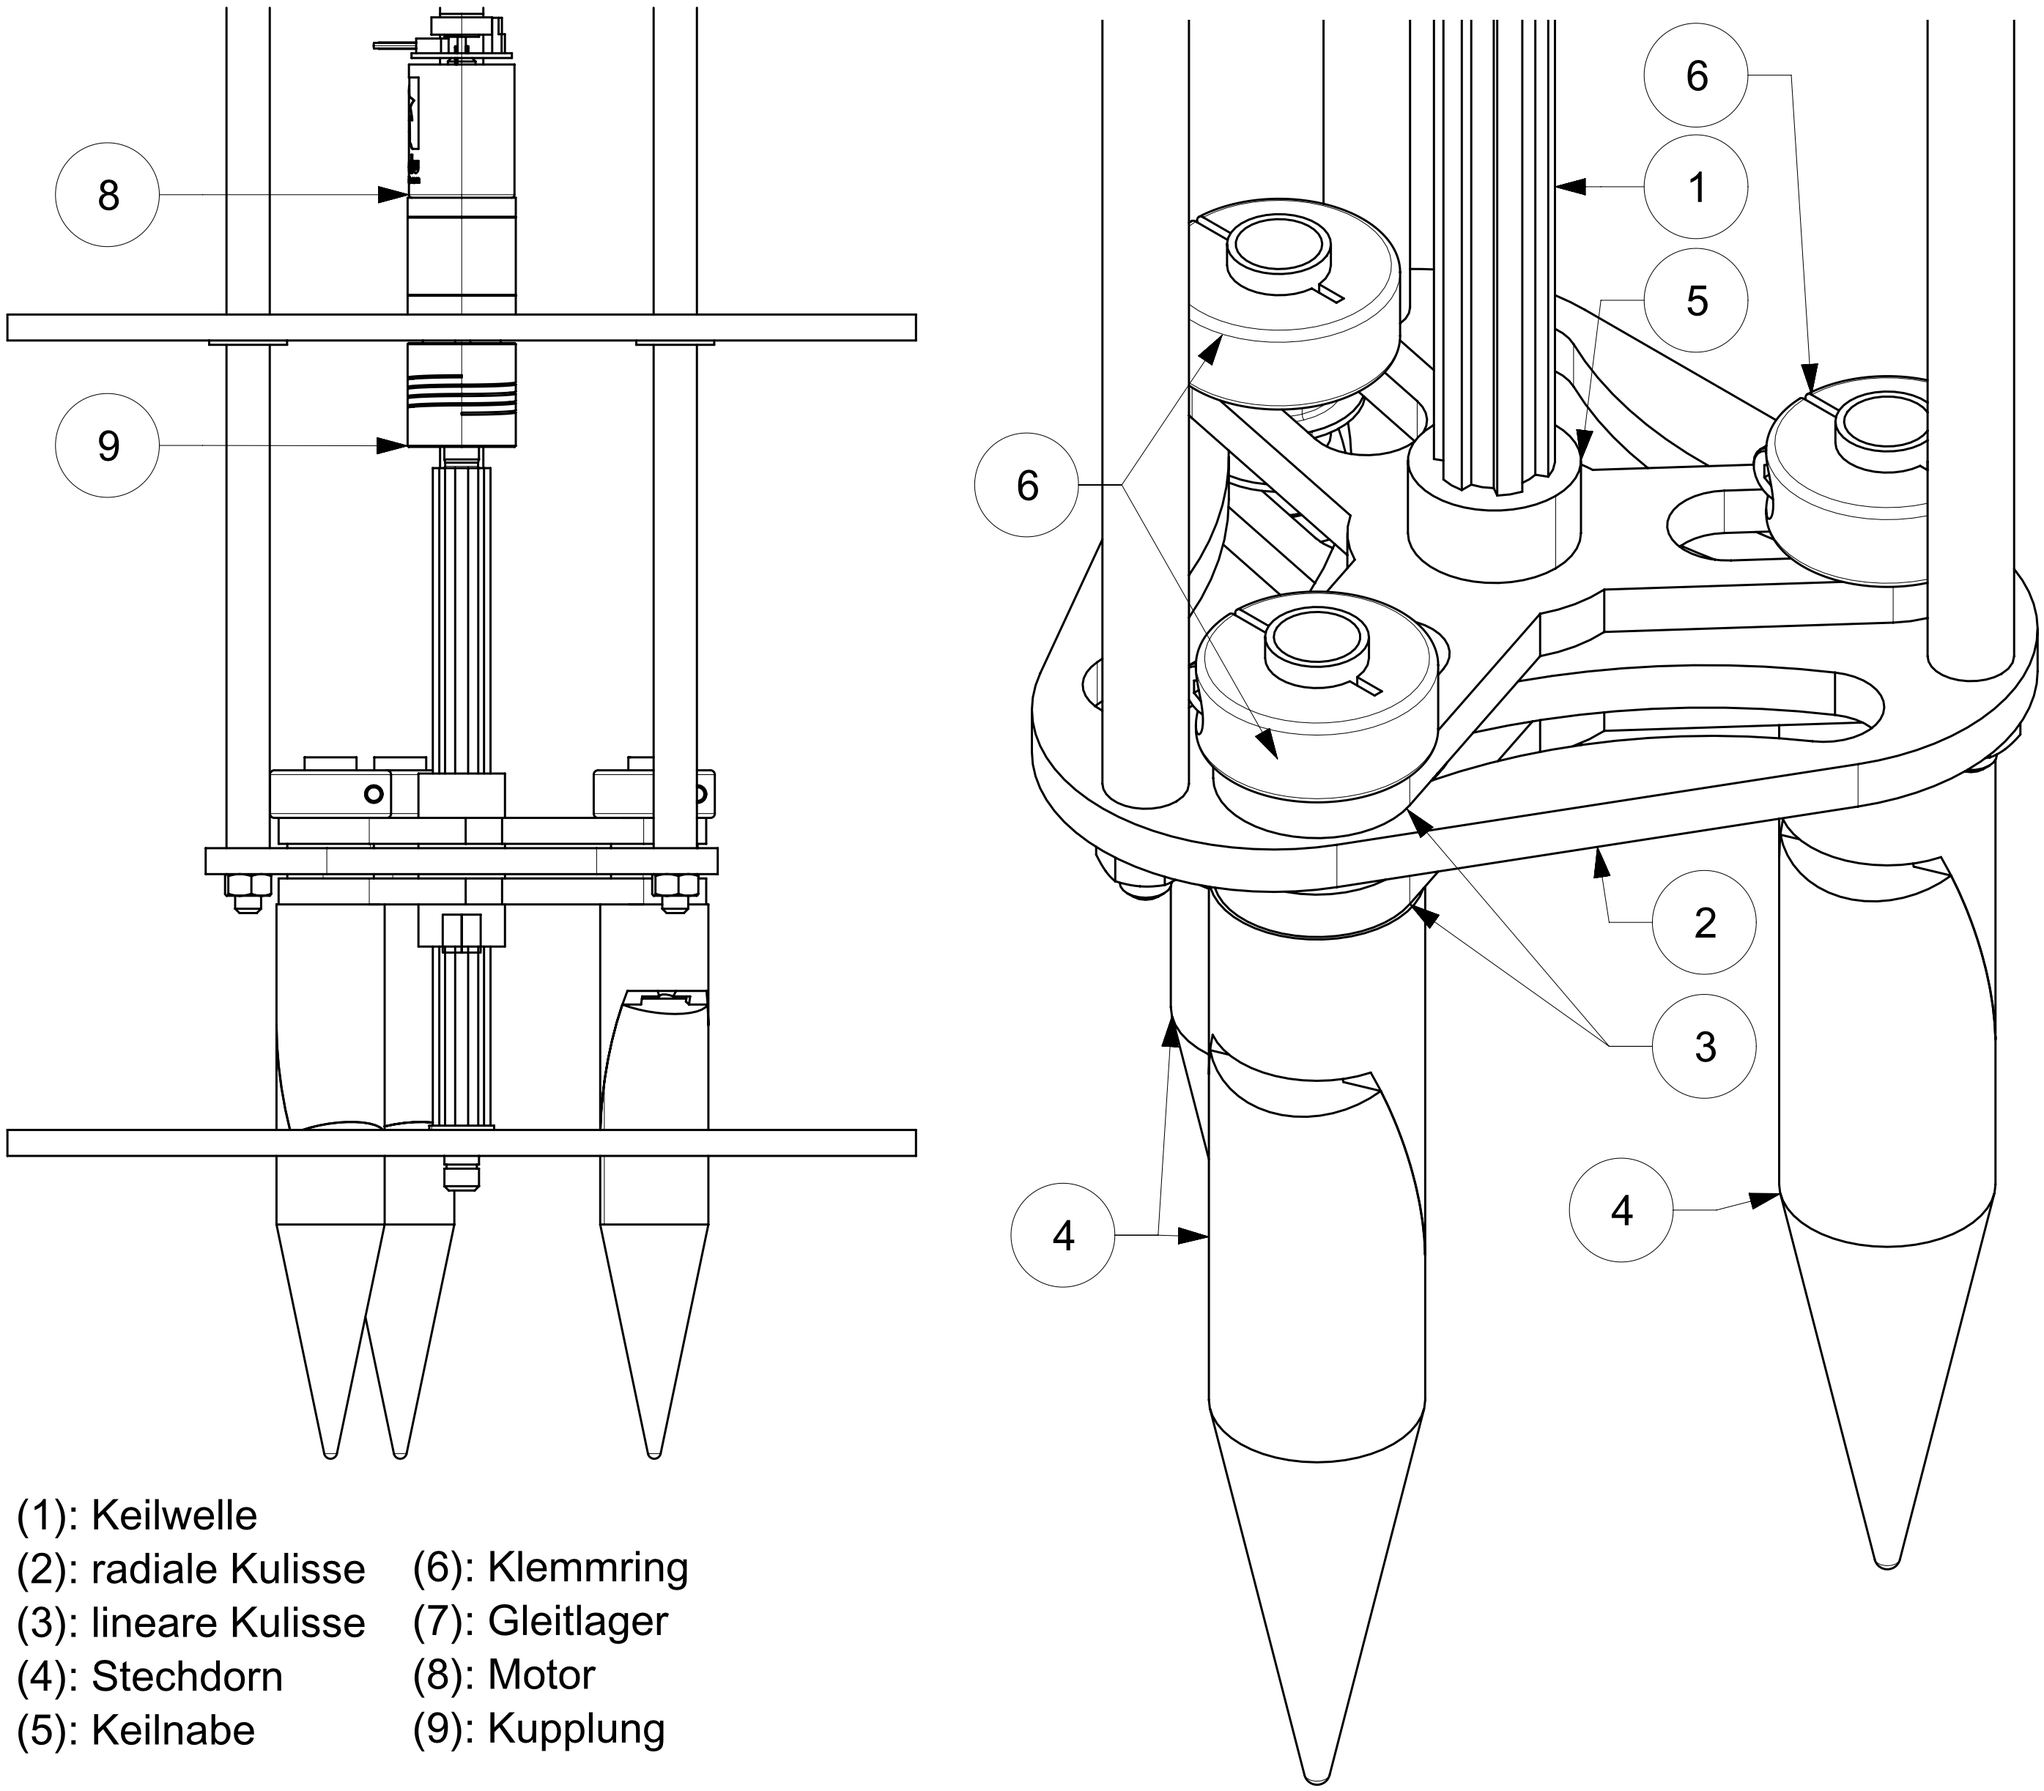
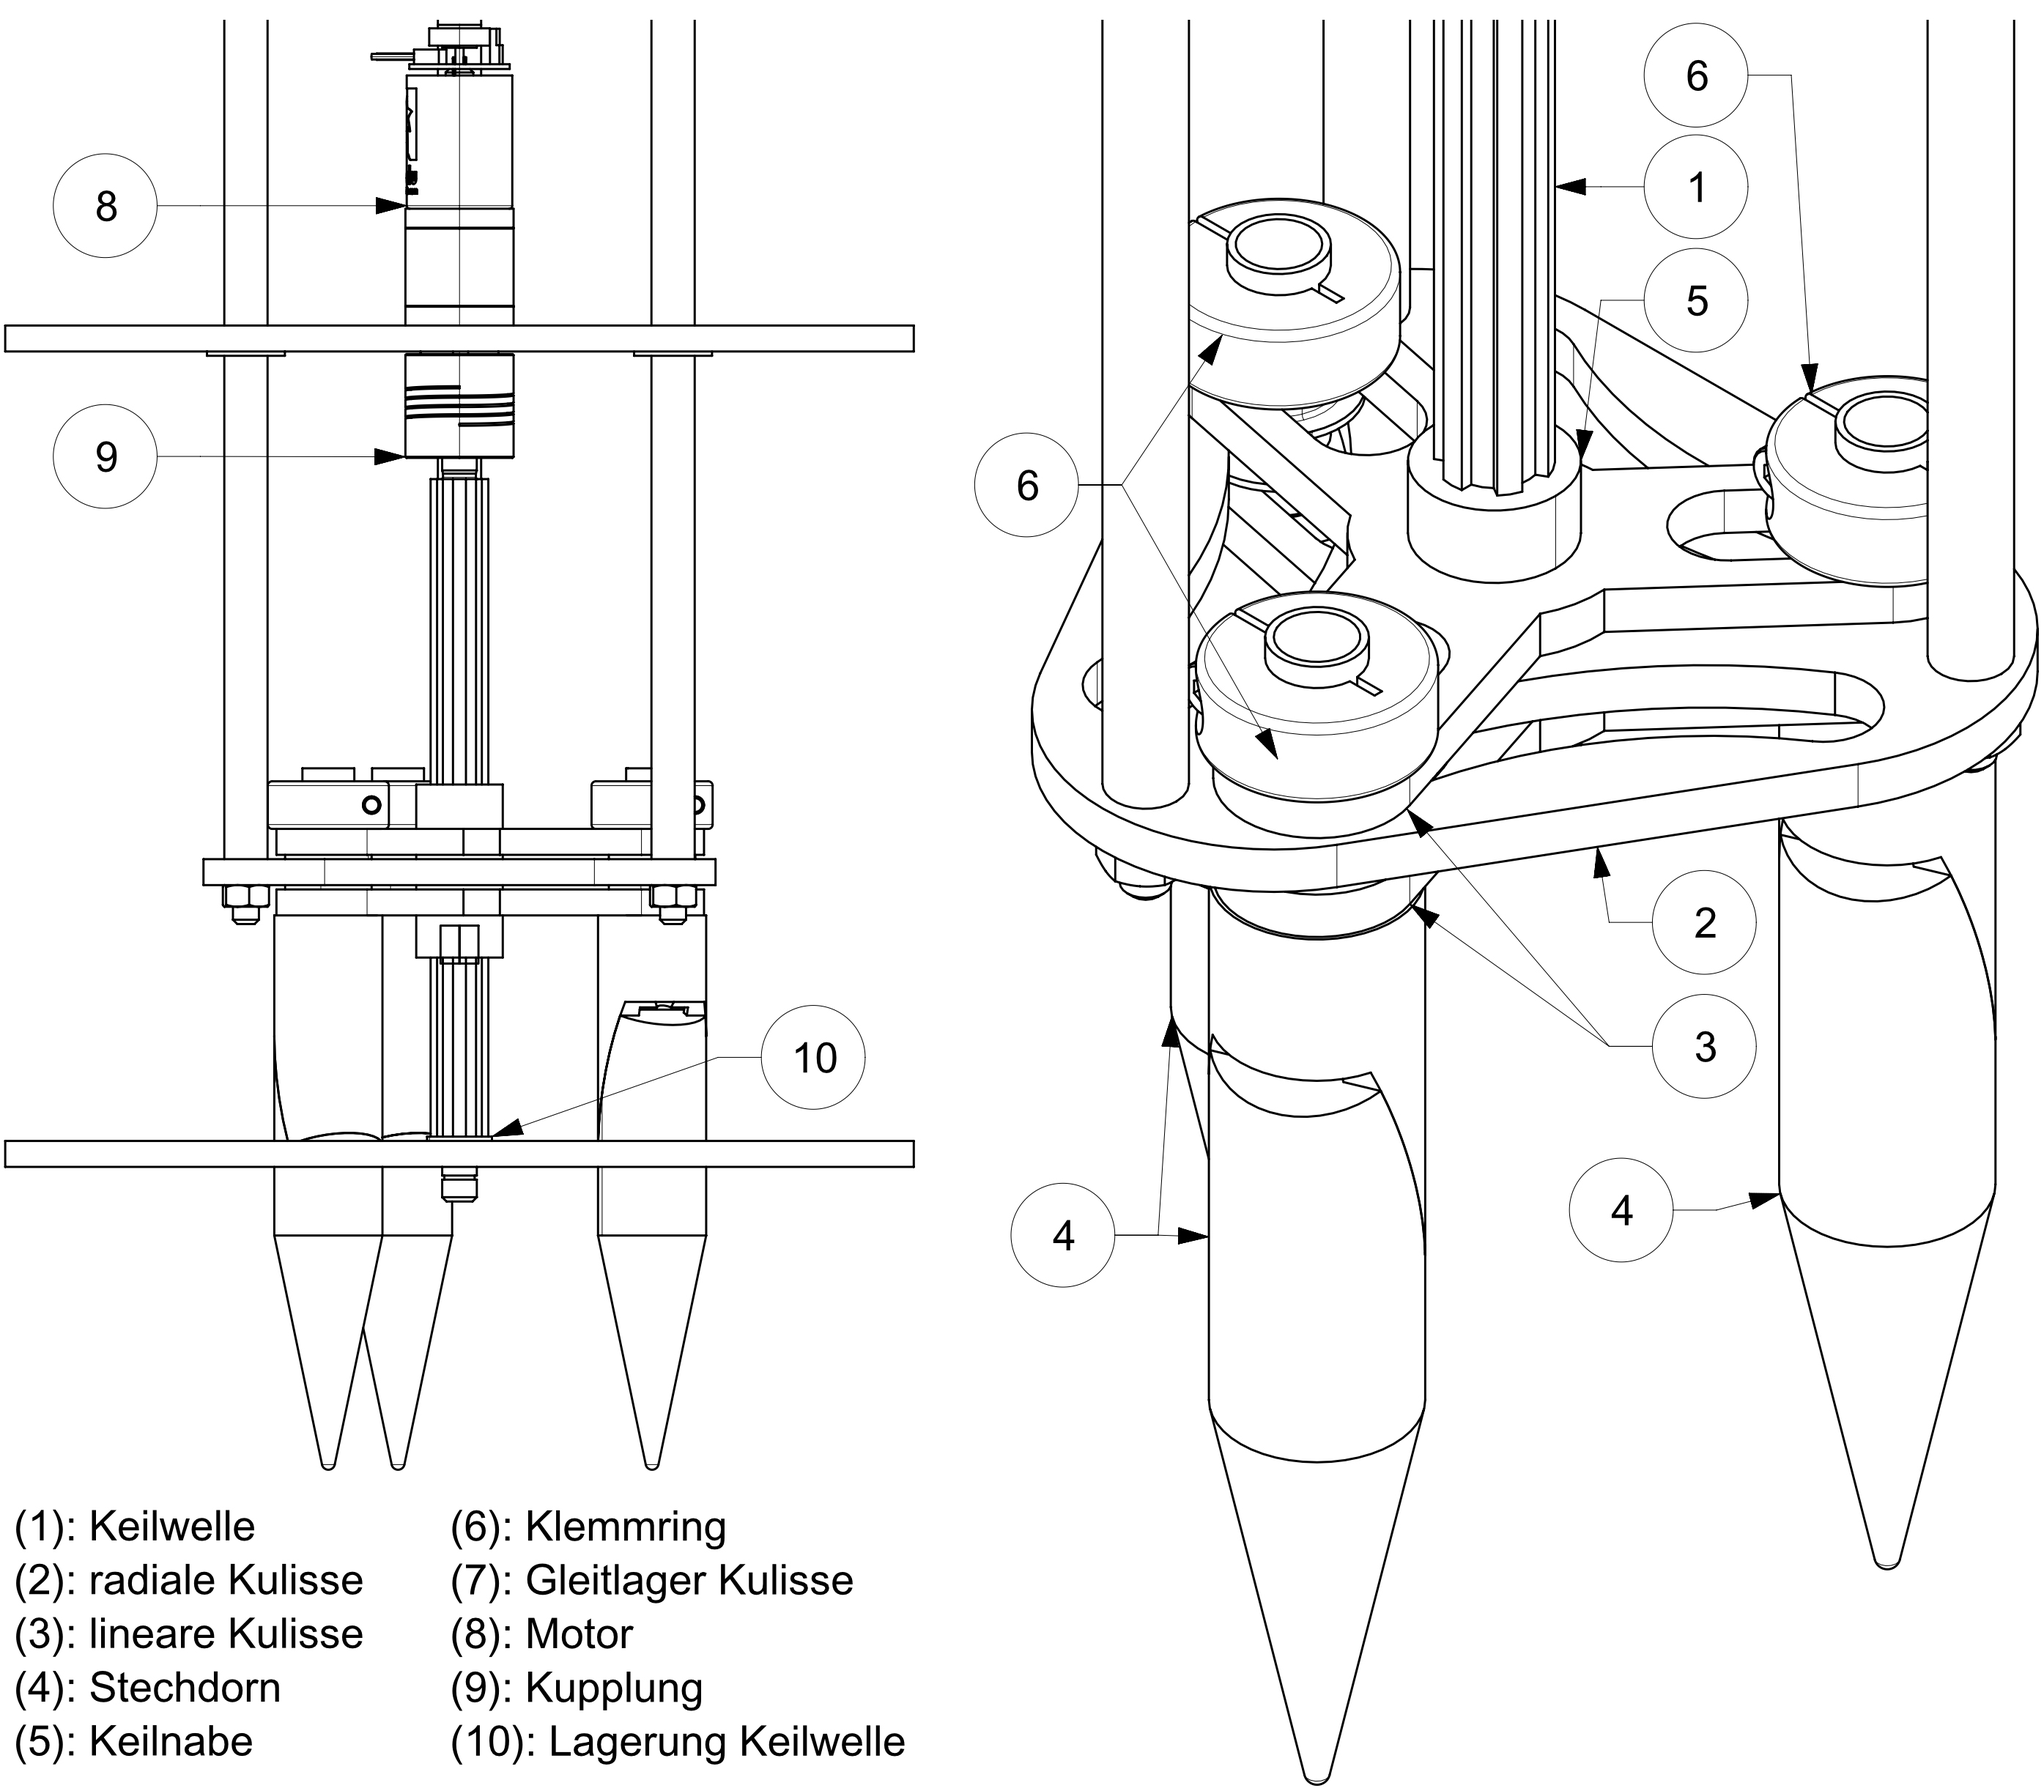
- finished draft of Verstellmechanik - created draft of Vereinzelung - added 3 pictures für subsection Vereinzelung

diff --git a/Kapitel/6_Umsetzung/6.5_Verstellmechanik.tex b/Kapitel/6_Umsetzung/6.5_Verstellmechanik.tex
@@ -1,1 +1,38 @@
 \subsection{Verstellmechanik}
+Die Hauptaufgabe der Verstellmechanik ist, die automatisierte Einstellung aller geforderten Topfradien. Auch ist die Verstellmechanik Teil der Setzeinheit. Dabei kann keine klare Abgrenzung zur Setzeinheit gemacht werden, da in gewissen Komponenten Funktionen beider Einheiten vereint sind. Auch ist die Verstellmechanik klar an Wunschanforderung formuliert. Die Wunschanforderung birgt einen erhöhten Entwicklungsaufwand. Dies wird bewusst in Kauf genommen, um ein Maximum an Automatisierungsgrad zu erreichen. Möchte trotzdem auf die automatische Verstellung der Topfradien verzichtet werden, ist die Entwicklung der Pflichtanforderung weniger zeitintensiv und rasch implementiert.
+\newline
+\newline
+\textbf{Aufbau}
+\newline
+Die Konstruktion der Verstellmechanik basiert auf dem erstellten Funktionsmuster. die Grundidee ist, dass über zwei Kulissen (eine radiale und eine lineare) der Topfradius zentral an einer Welle verstellt werden kann. Ein klarer Vorteil ist, dass dadurch nur ein Aktor für die Verstellung aller Stechdorne benötigt wird. Die Konstruktion kann in zwei Teile unterteilt werden:
+\begin{itemize}
+	\item \textbf{Bewegter Teil}: Dieser Teil wird durch die Translation bewegt. Die drei Stechdorne (Punkt 4 in Abb. \ref{fig:details_vm}) sind durch zwei Kulissen (2, 3) verstellbar gelagert. Durch die Verbindung Keilnabe (5) - Keilwelle (1) sind diese mit dem unbewegten Teil gekoppelt. Eine geringe Gewicht des bewegten Teils ist für die Beschleunigung dieser Masse essentiell.
+	
+	\item \textbf{Unbewegter Teil:} Der unbewegte Teil dieser Einheit führt die Verstellung der Topfradien aus. Ein Getriebemotor (8), welcher durch eine Kupplung (9) mit der Keilwelle verbunden ist, führt die Verstellung der Topfradien aus. Diese Umsetzung besticht dadurch, dass anhand der Verbindung Keilnabe (5) - Keilwelle (1) bedeutend weniger Masse an der transaltorischen Bewegung teilnimmt. Dies bringt wertvolle Gewichteinsparnisse.
+\end{itemize}
+	\begin{figure}[H]
+	\includegraphics[scale=0.6]{Illustrationen/6-Umsetzung/details_vm.jpg}
+	\caption{Detaillierte Übersicht der Verstellmechanik}
+	\label{fig:details_vm}
+	\end{figure}
+Die Lagerung der Keilwelle wird nur wenig beansprucht, da durch die translatorische Freiheit der Keilnabe (entlang der Achse) keine Axialkräfte auftretten. Da die Verstellung des Topfradius nur wenige Male pro Tag vorgenommen wird, kann \textbf{nach Roloff Matekk (2013, S.XY)} von einer statischen Belastung (n<10U/min) ausgegangen werden. Daher wird für die Lagerung am unteren Ende (10) ein Gleitlager idlidur J3 von Igus verwendet. Am oberen Ende ist die Keilwelle (1) über die Kupplung (9) durch den Getriebemotor (8) gelagert.
+\newline
+\newline
+Der Stechdorn wird durch zwei lineare Kulissen (Punkt 3 in Abb \ref{fig:schnitt_vm})) und eine radiale Kulisse (2) geführt. dabei sind die linearen Kulissen (3) mit der Keilnabe verbunden, die Radiale über die Führungen mit der Spindel. Um die Reibung zwischen Stechdorn und Kulissen zu vermindern werden auch hier Gleitlager (7) von igus eingesetzt. Die ganze Mechanik wird dabei durch die Auflage des Stechdorns (4) und einem Klemmring (6) gehalten.
+	\begin{figure}[H]
+	\includegraphics[scale=0.63]{Illustrationen/6-Umsetzung/schnitt_vm.jpg}
+	\caption{Geschnittene Seitenansicht der Verstellmechanik}
+	\label{fig:schnitt_vm}
+	\end{figure}
+
+\textbf{Funktion}
+\newline
+Die Bewegung der Verstellmechanik ist in Abbildung \ref{fig:motion_vm} dargestellt. Punkt B bildet ein beliebiger Punkt ab. So ist am Anschlag (Punkt A aus Abb. \ref{fig:motion_vm}) die Einsetzlokalität des grössten Topfes (Dmax = 140mm) und bei halbem Weg der Kulisse die Einsetzlokalität des kleinsten Topfes (Dmin = 90mm) erreicht. Dabei fällt auf, dass das Doppelte des nötigen Weges implementiert wurde. Begründet wird dies damit, dass dadurch der hochübersetzte Getriebemotor mehr Umdrehungen absolviert bis der gewünschte Radius erreicht wird. Dies steigert die Auflösung des Motors und verbessert die Regelbarkeit massiv.
+	\begin{figure}[H]
+	\includegraphics[scale=0.53]{Illustrationen/6-Umsetzung/motion_vm.jpg}
+	\caption{Verstellung des Topfradius}
+	\label{fig:motion_vm}
+	\end{figure}
+\textbf{Material und Fertigungsverfahren der Kulissen}
+\newline
+Wie schon erläutert, ist ein geringes Gewicht der beschleunigten Masse anzustreben. Gemäss Berechnungen soll die beschleunigte Masse maximal 1kg betragen. Um diese Anforderung zu erfüllen werden die Kulissen (Punkte 2 und 3 aus Abb. \ref{fig:motion_vm}) aus 6mm dickem Aluminiumblech gefertigt. So werden diese Teile auch mittels Laserschneidmaschine gefertigt. Weiter erspart diese Wahl das Umrüsten der Maschine und haltet die kosten auf einem Minimum.

diff --git a/Kapitel/6_Umsetzung/6.3_Vereinzelung.tex b/Kapitel/6_Umsetzung/6.3_Vereinzelung.tex
@@ -1,5 +1,44 @@
 \subsection{Vereinzelung}
+sdffd
+\newline
+\newline
+\textbf{Aufbau}
+\newline
 
-\begin{equation}
-e=mc
-\end{equation}
+
+	\begin{figure}[H]
+	\includegraphics[scale=0.45]{Illustrationen/6-Umsetzung/details_vereinzelung.jpg}
+	\caption{Detaillierte Übersicht der Vereinzelung}
+	\label{fig:details_vereinzelung}
+	\end{figure}
+asfasdf
+\newline
+\textbf{Funktion}
+\newline
+dfgsdf
+\newline
+\textbf{Abhilfemassnahmen}
+\newline
+sadfsdaf
+\newline
+\textbf{Entleeren}
+\newline
+	\begin{figure}[H]
+	\includegraphics[scale=0.42]{Illustrationen/6-Umsetzung/vereinzelung_entleeren.jpg}
+	\caption{Entleerung der Trommel}
+	\label{fig:details_vereinzelung}
+	\end{figure}
+asdfasdf
+\newline
+\textbf{Lochmaske}
+\newline
+Detektion
+	\begin{figure}[H]
+	\includegraphics[scale=0.63]{Illustrationen/6-Umsetzung/detail_lochmaske.jpg}
+	\caption{Entleerung der Trommel}
+	\label{fig:detail_lochmaske}
+	\end{figure}
+jhj
+\newline
+\textbf{Fertigungsverfahren und Materialwahl}
+\newline

diff --git a/Kapitel/7_Inbetriebnahme_Kalibration/7.4_Verstellmechanik.tex b/Kapitel/7_Inbetriebnahme_Kalibration/7.4_Verstellmechanik.tex
@@ -1,1 +1,2 @@
 \subsection{Verstellmechanik}
+
